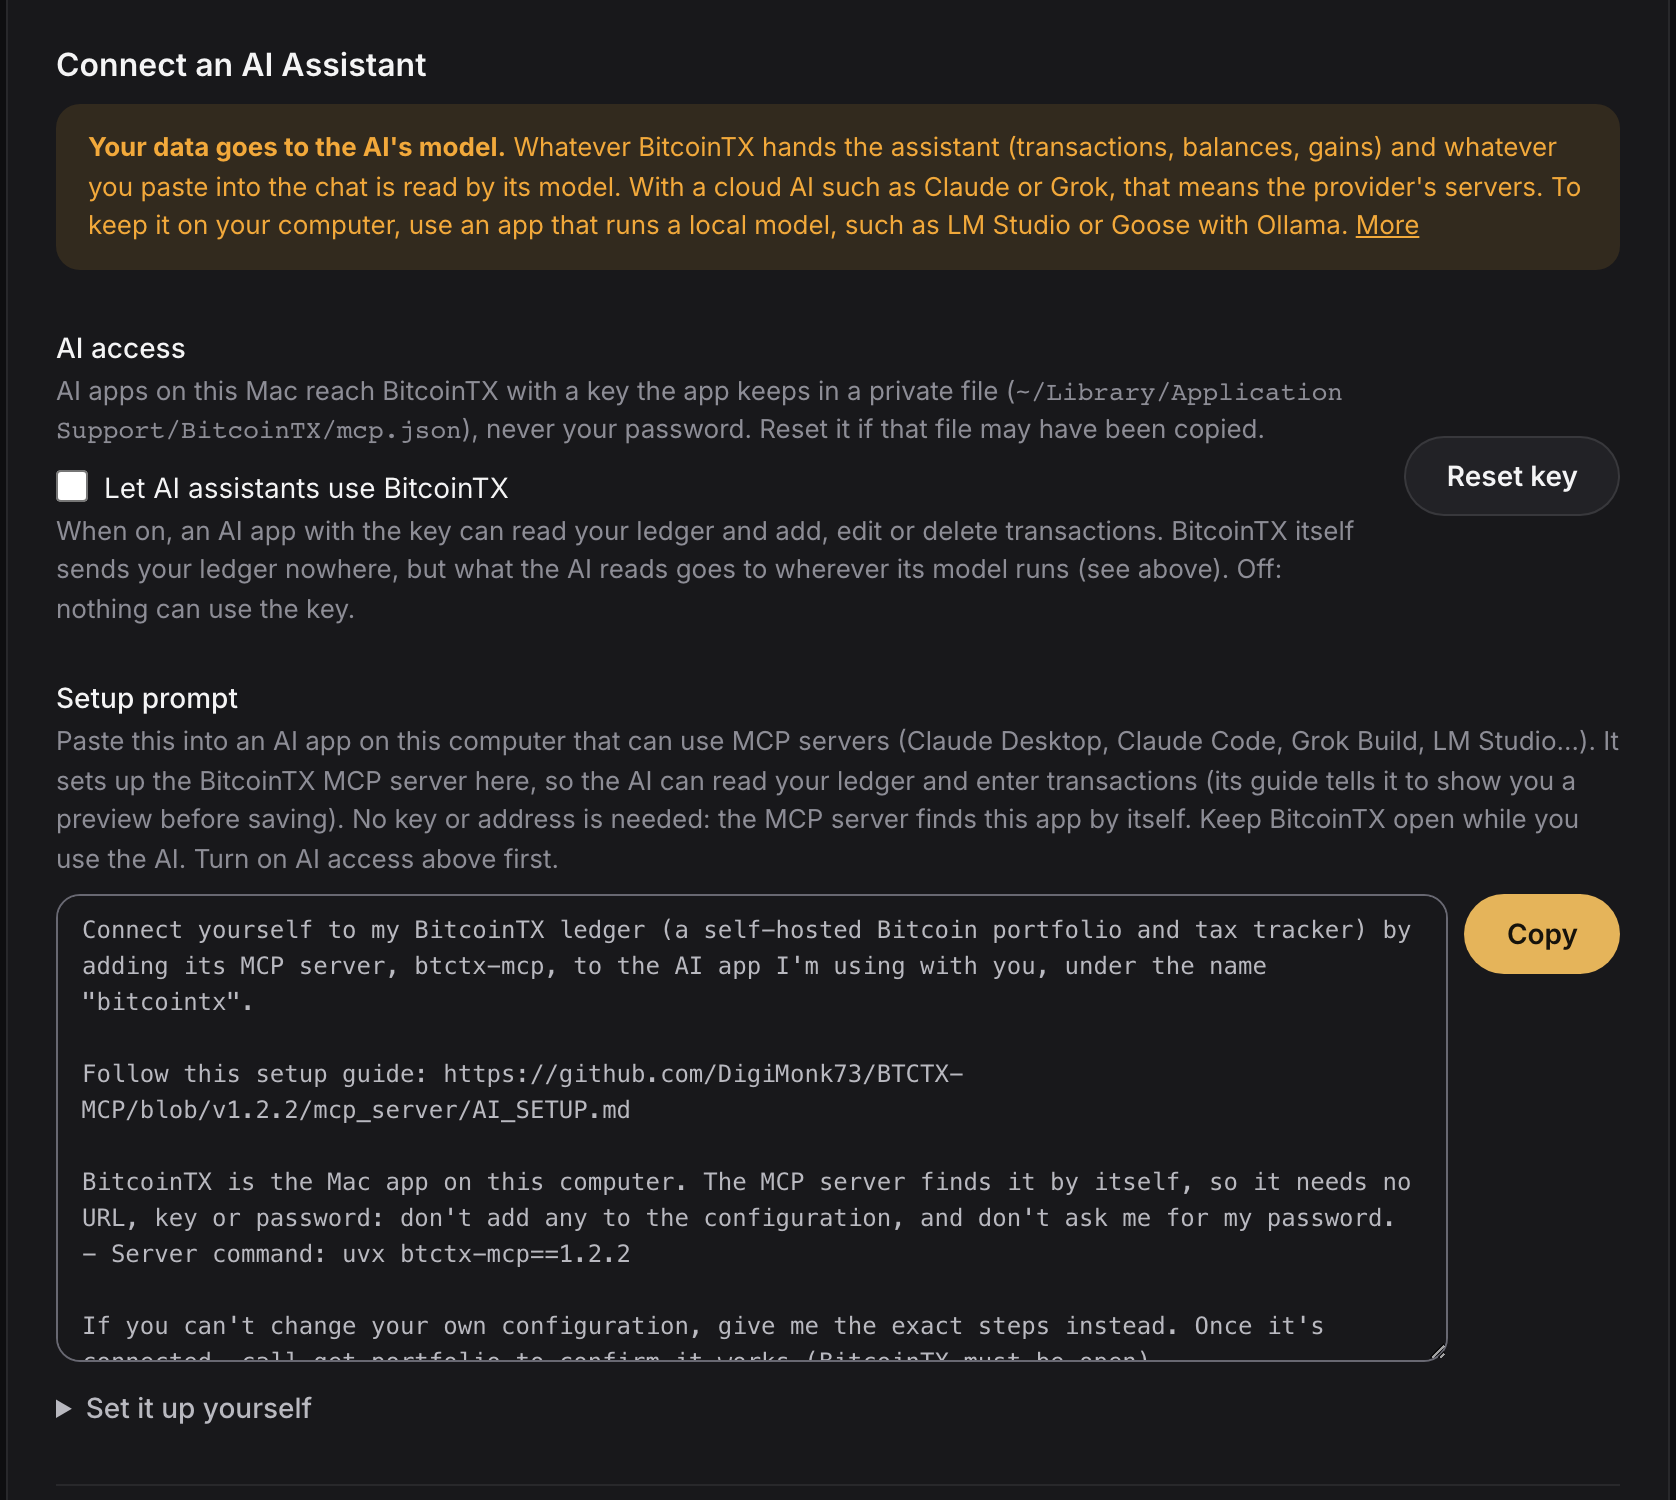
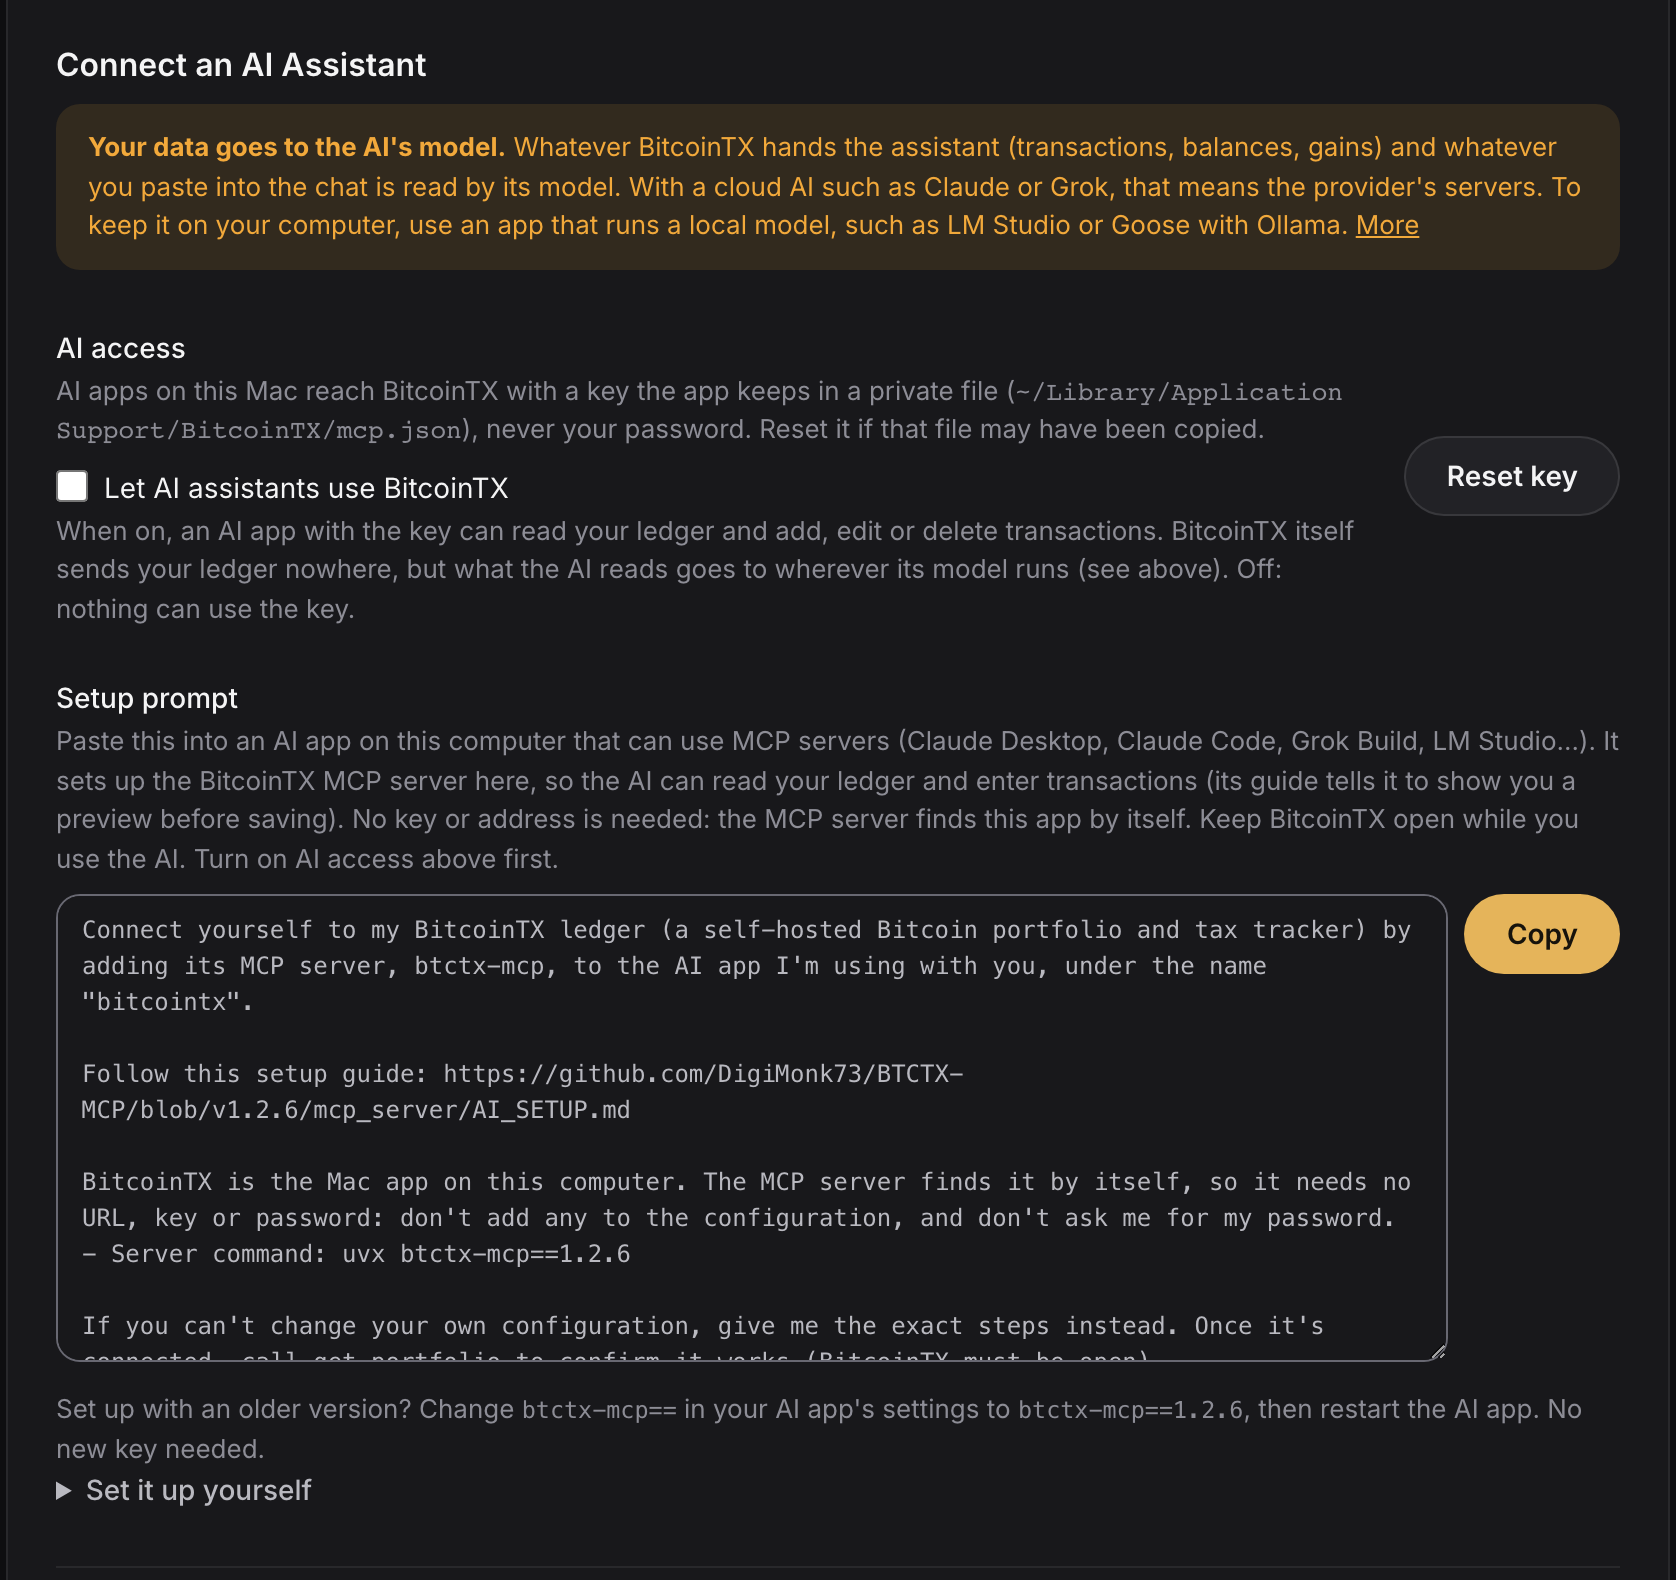
BitcoinTX 1.2.6: Start9's Community Beta registry, rebates, the original date, new screenshots
- StartOS: install from Start9's Community Beta registry (Marketplace,
  Switch, add the address, Install), or sideload the .s9pk; StartOS
  0.4.0.2 or later.
- First run: the Docker setup code; on StartOS, Set Login Credentials.
- Income: sats-back for spending is valued the same way, as a rebate, not
  income. Upgrading: then Ledger Review, and the AI connector's version.
- Complete tax report: the "Using these forms" page and the rebates table.
  Ledger review: its two new checks. FIFO lots: the date first acquired.
- "You check it, then file the filled-in form."
- Screenshots retaken on 1.2.6 with test data: Reports (check before
  filing, the disclaimer) and Settings (the AI section, now 1676x1580).
  Dashboard and Transactions came out identical.

Changed region(s): [[0.031, 0.2147, 0.9928, 0.9507], [0.031, 0.0307, 0.9618, 0.184], [0.8377, 0.276, 0.9308, 0.3373]]

diff --git a/index.html b/index.html
@@ -190,6 +190,7 @@ figcaption { color: var(--muted); font-size: 0.875rem; margin-top: 10px; }
 .platform .btns { display: flex; flex-wrap: wrap; gap: 10px; margin-bottom: 20px; }
 .platform ol { margin: auto 0 0; padding-left: 18px; color: var(--text-2); font-size: 0.875rem; }
 .platform ol li + li { margin-top: 6px; }
+.platform code { overflow-wrap: anywhere; }
 .cmd { position: relative; margin-bottom: 20px; }
 .cmd pre { margin: 0; background: var(--bg); border: 1px solid var(--border-strong); border-radius: var(--radius); padding: 14px 16px 52px; color: var(--text); font-size: 0.8125rem; line-height: 1.6; white-space: pre-wrap; word-break: break-all; }
 .copy { position: absolute; bottom: 8px; right: 8px; padding: 7px 14px; font-size: 0.8125rem; }
@@ -275,7 +276,7 @@ footer a:hover { color: var(--text); }
           </div>
         </div>
         <div class="stage">
-          <p class="stage-label">You file the filled-in form</p>
+          <p class="stage-label">You check it, then file the filled-in form</p>
           <div class="panel form">
             <div class="form-head"><strong>Form 8949, Part II, Box K</strong><span>Tax year 2025</span></div>
             <table>
@@ -315,11 +316,11 @@ footer a:hover { color: var(--text); }
         <h3>Record<span>Enter what happened once; the ledger works out the rest.</span></h3>
         <div class="items">
           <div><h3>Five kinds of transaction</h3><p>Deposit, withdrawal, transfer, buy and sell, across your bank, exchange cash, exchange bitcoin and your own wallet. Every one is a balanced double entry.</p></div>
-          <div><h3>FIFO lots per account</h3><p>Each sale uses the oldest coins in that account. Moving coins to cold storage keeps their purchase date and cost, so the holding clock and the basis travel with them.</p></div>
+          <div><h3>FIFO lots per account</h3><p>Each sale uses the oldest coins in that account. Moving coins to cold storage keeps their purchase date and cost, so the holding clock and the basis travel with them. Coins you already owned, or received as a gift, can keep the date they were first acquired.</p></div>
           <div><h3>Network fees handled</h3><p>The on-chain fee of a transfer or withdrawal is recorded as its own small disposal, valued at that day's price.</p></div>
           <div><h3>Backdate freely</h3><p>Every add, edit or delete recalculates the whole ledger in date order, so a forgotten purchase from two years ago lands in the right place.</p></div>
           <div><h3>Imports</h3><p>River's CSV export, a generic CSV to start a new ledger, or an AI assistant that turns emails and wallet histories into entries.</p></div>
-          <div><h3>Income at its real value</h3><p>Bitcoin earned as pay, interest or rewards is valued at that day's price, which is both its cost basis and the income you report.</p></div>
+          <div><h3>Income at its real value</h3><p>Bitcoin earned as pay, interest, mining, staking or bonuses is valued at that day's price, which is both its cost basis and the income you report. Sats-back for spending is valued the same way, as a rebate, not income.</p></div>
         </div>
       </div>
 
@@ -328,7 +329,7 @@ footer a:hover { color: var(--text); }
         <div class="items">
           <div><h3>Form 8949 and Schedule D</h3><p>The official IRS PDFs, filled in and flattened, one sheet per box, with totals carried to the right Schedule D lines. Until the IRS publishes next year's final forms, a preview on its drafts, marked DRAFT — DO NOT FILE.</p></div>
           <div><h3>1099-DA boxes</h3><p>From tax year 2025, exchange sales go in the boxes for Form 1099-DA. If your broker's form says something different for a sale, record that on the sale and the box follows.</p></div>
-          <div><h3>Complete tax report</h3><p>One PDF for you or your preparer: the year's key figures on the cover, a one-page summary with each Form 8949 box and its Schedule D line, then every sale, income and holding. Your transaction history comes as a spreadsheet or a PDF.</p></div>
+          <div><h3>Complete tax report</h3><p>One PDF for you or your preparer: the year's key figures on the cover, a one-page summary with each Form 8949 box and its Schedule D line, then every sale, income and holding, with rebates in a table of their own. A “Using these forms” page tells your preparer what's filled in on the forms, what's left blank, and why. Your transaction history comes as a spreadsheet or a PDF.</p></div>
           <div><h3>Your tax timezone</h3><p>Decides which year a late-night December 31 sale belongs to, the dates on the forms, and the day a holding turns long-term: after one full year, as the IRS counts it.</p></div>
         </div>
       </div>
@@ -336,7 +337,7 @@ footer a:hover { color: var(--text); }
       <div class="group">
         <h3>Check<span>See what's off before it reaches a form.</span></h3>
         <div class="items">
-          <div><h3>Ledger review</h3><p>A read-only list of entries worth a second look: a spend saved at $0, a deposit with no cost basis, a fee valued far from the day's price, and every figure a recalculation would change.</p></div>
+          <div><h3>Ledger review</h3><p>A read-only list of entries worth a second look: a spend saved at $0, a deposit with no cost basis, an income or rebate deposit with no value, a My BTC or Gift deposit without its original date, a fee valued far from the day's price, and every figure a recalculation would change.</p></div>
           <div><h3>Stored price history</h3><p>Past daily prices are kept on your machine. Nothing is ever valued at today's price or at $0 by accident: with no price, BitcoinTX asks.</p></div>
           <div><h3>Encrypted backups</h3><p>Download the whole database as a password-protected backup and restore it on any install. Upgrades keep a copy of the old database first.</p></div>
         </div>
@@ -372,7 +373,7 @@ footer a:hover { color: var(--text); }
           <li>The connector (btctx-mcp on PyPI) is pinned to your BitcoinTX version, so nothing new is fetched behind your back.</li>
         </ul>
       </div>
-      <figure><div class="shot"><img src="img/settings.png" width="1676" height="1500" alt="Settings: Connect an AI Assistant, with the privacy note, the AI access switch and the setup prompt" loading="lazy"></div><figcaption>Settings, Connect an AI Assistant, in the Mac app.</figcaption></figure>
+      <figure><div class="shot"><img src="img/settings.png" width="1676" height="1580" alt="Settings: Connect an AI Assistant, with the privacy note, the AI access switch and the setup prompt" loading="lazy"></div><figcaption>Settings, Connect an AI Assistant, in the Mac app.</figcaption></figure>
     </div>
   </section>
 
@@ -380,7 +381,7 @@ footer a:hover { color: var(--text); }
     <div class="wrap">
       <div class="section-head">
         <h2 id="download-h">Download</h2>
-        <p>Every link below fetches the latest release. What changed: <a href="https://github.com/DigiMonk73/BTCTX-MCP/releases/latest">release notes</a>.</p>
+        <p>Every download below is the latest release. What changed: <a href="https://github.com/DigiMonk73/BTCTX-MCP/releases/latest">release notes</a>.</p>
       </div>
       <div class="platforms">
         <div class="platform mac">
@@ -397,12 +398,13 @@ footer a:hover { color: var(--text); }
         </div>
         <div class="platform">
           <h3>StartOS</h3>
-          <p>For a Start9 server: runs next to your node, reachable from your devices.</p>
+          <p>For a Start9 server with StartOS 0.4.0.2 or later: runs next to your node, reachable from your devices.</p>
           <div class="btns">
-            <a class="btn btn-primary" href="https://github.com/DigiMonk73/BTCTX-MCP/releases/latest/download/btctx.s9pk">Download .s9pk</a>
+            <a class="btn btn-secondary" href="https://github.com/DigiMonk73/BTCTX-MCP/releases/latest/download/btctx.s9pk">Download .s9pk</a>
           </div>
           <ol>
-            <li>In StartOS, open Sideload and upload btctx.s9pk.</li>
+            <li>Start9 publishes each release to its Community Beta registry. In StartOS, open Marketplace, click Switch and add <code>https://community-beta-registry.start9.com</code> (<a href="https://docs.start9.com/start-os/alternative-registries.html">Start9's guide</a>), then choose BitcoinTX and click Install. New versions show in the Updates tab.</li>
+            <li>Or sideload it: download btctx.s9pk above and upload it under Sideload.</li>
             <li>Run Set Login Credentials (it shows your login once: keep it), then Price Source &amp; Privacy: your own Mempool, public sites (optionally over Tor), or nothing.</li>
             <li>Start the service and open its Web UI.</li>
             <li>Package source: <a href="https://github.com/Start9-Community/BTCTX-StartOS">Start9-Community/BTCTX-StartOS</a>.</li>
@@ -422,8 +424,8 @@ footer a:hover { color: var(--text); }
         </div>
       </div>
       <div class="after">
-        <div><h3>First run</h3><p>A new install starts with the login admin / password. The first screen has you set your own before anything else.</p></div>
-        <div><h3>Upgrading</h3><p>Install the new version over the old one. It upgrades your database by itself and keeps a copy of the old one.</p></div>
+        <div><h3>First run</h3><p>A new Mac or Docker install starts with the login admin / password, and the first screen has you set your own before anything else. The Mac app needs no code; Docker also asks for a one-time setup code, shown by docker logs and saved as setup-code.txt in /data. On StartOS, Set Login Credentials creates your login and shows it once.</p></div>
+        <div><h3>Upgrading</h3><p>Install the new version over the old one. It upgrades your database by itself and keeps a copy of the old one. Then open Settings, Ledger Review. If you use the AI connector, change btctx-mcp== to the new version in your AI app's settings and restart the AI app.</p></div>
         <div><h3>From source</h3><p>Python 3.10+ and Node 20+. Instructions in the <a href="https://github.com/DigiMonk73/BTCTX-MCP#from-source">README</a>.</p></div>
       </div>
     </div>
